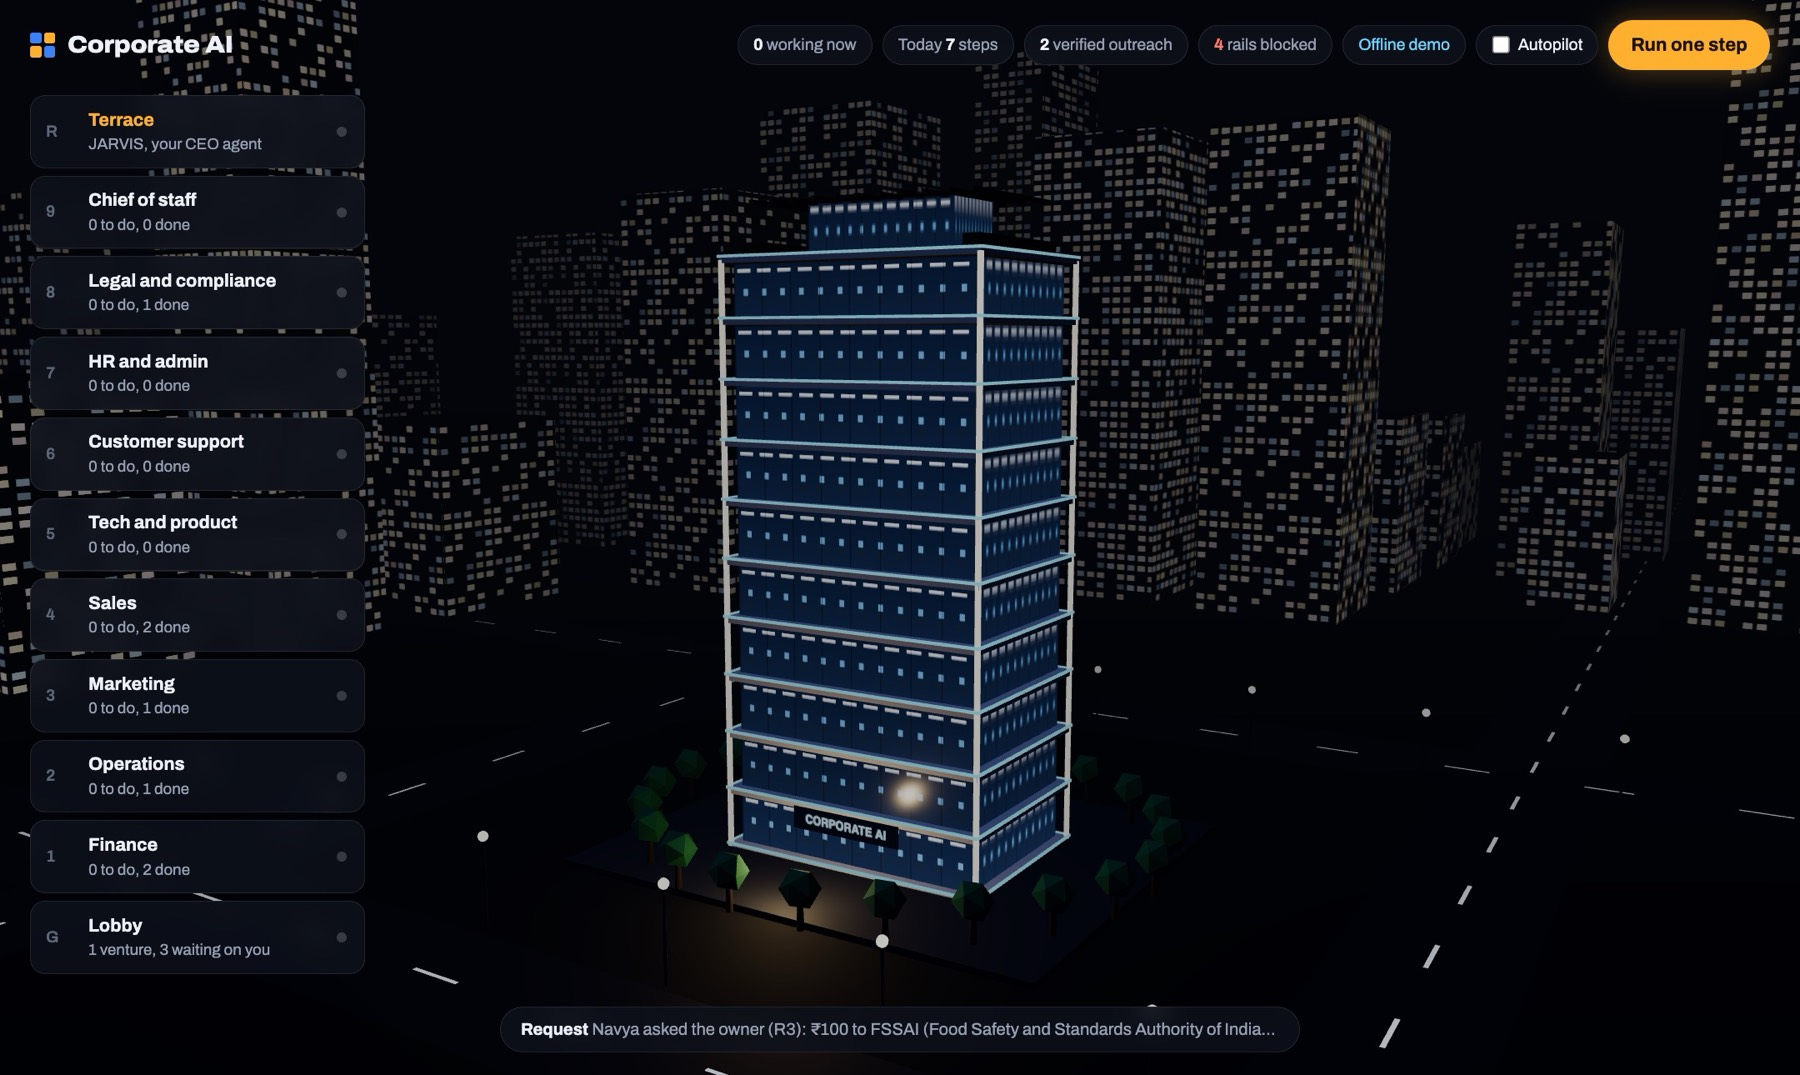
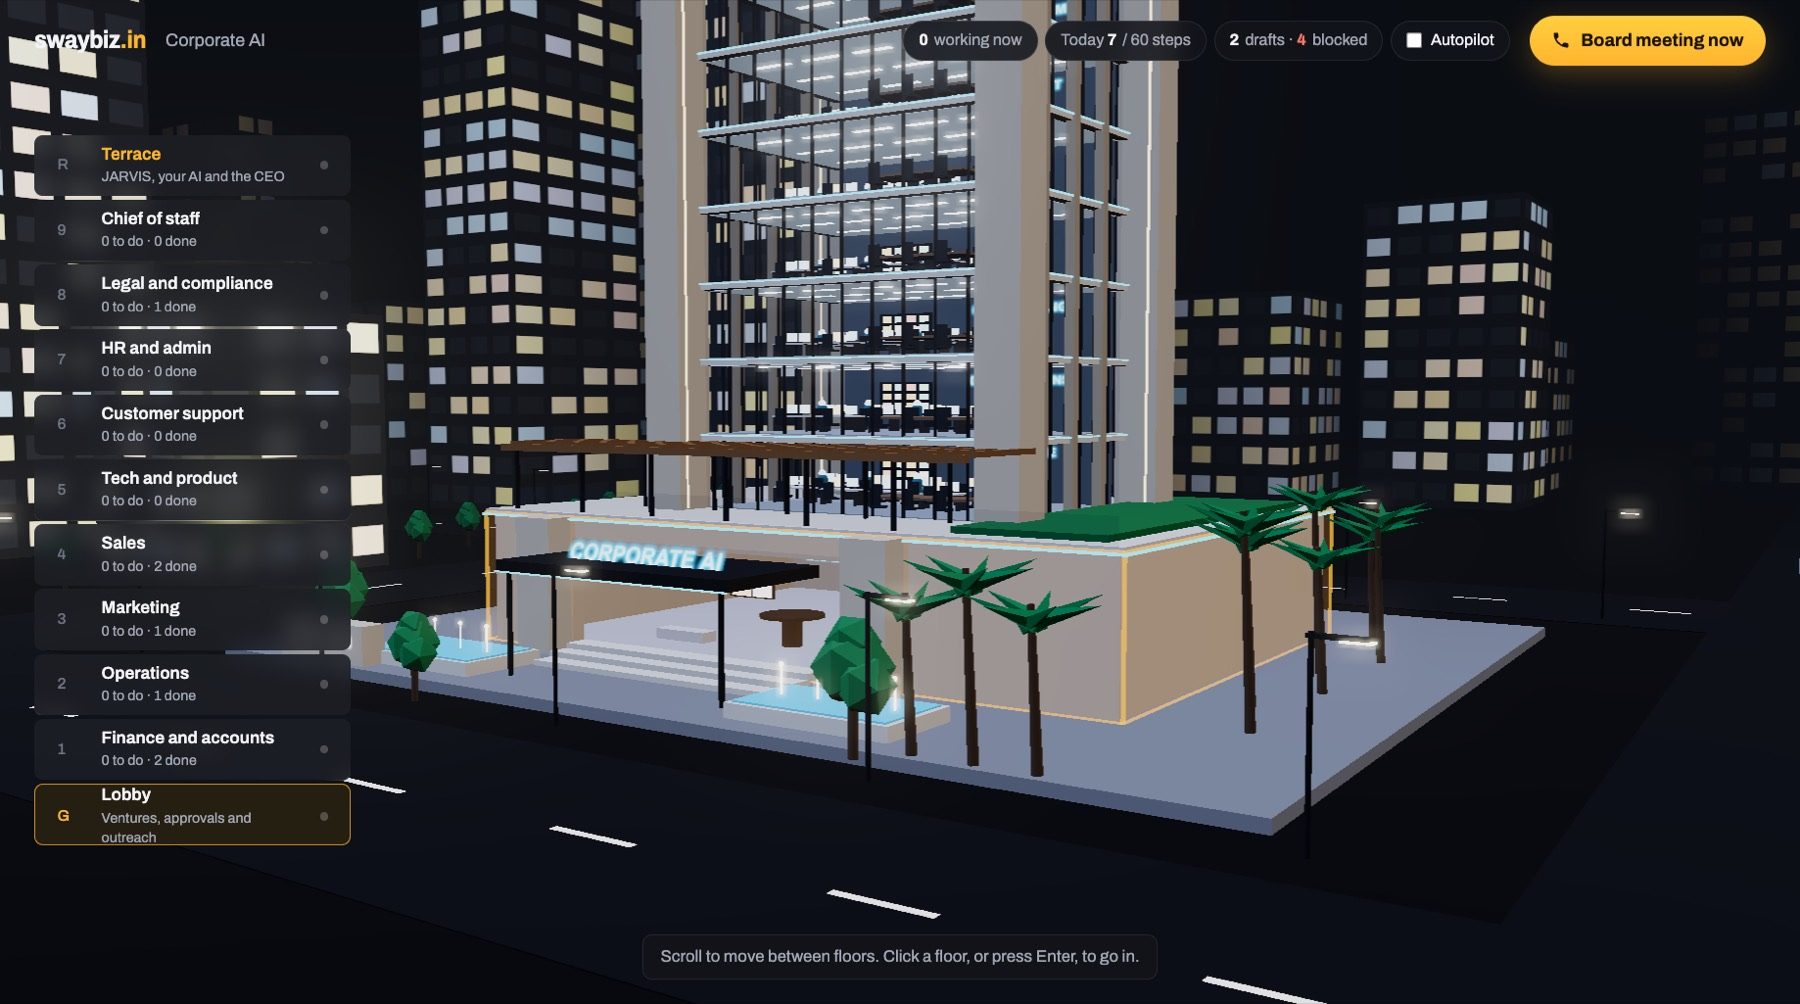
landing page: new screenshots of the rebuilt building and lobby

diff --git a/app/public/landing/index.html b/app/public/landing/index.html
@@ -35,7 +35,7 @@
         </div>
       </div>
       <figure class="hero-shot">
-        <img src="lobby.jpg" width="1800" height="1075" alt="The Corporate AI building at night, with the lobby panel open showing a ₹1,450 sample request waiting for the owner's approval" fetchpriority="high">
+        <img src="lobby.jpg" width="1800" height="1004" alt="Inside the Corporate AI lobby at night: the neon Corporate AI sign, the reception desk and the directory of floors" fetchpriority="high">
       </figure>
     </section>
 
@@ -154,9 +154,9 @@ small wholesale lots"</span></pre>
 
     <section class="inside">
       <h2>Go inside the building.</h2>
-      <p class="lede">Every floor is a department. Floors glow amber while someone is working. Click one to see the team, their work, and give them more.</p>
+      <p class="lede">Every floor is a department. Scroll to move between floors, then go in to see the team at their desks, their work, and give them more.</p>
       <figure class="wide-shot">
-        <img src="floor.jpg" width="1800" height="1075" loading="lazy" alt="Finance floor open: Rhea, Varun and Ishaan with their finished tasks, including pricing the 2 kg tea box">
+        <img src="building.jpg" width="1800" height="1004" loading="lazy" alt="The Corporate AI tower at night, with the floor list on the left: scroll to move between floors, click one to go in">
       </figure>
       <div class="ctas center">
         <a class="btn go big" href="../">Open the building</a>
